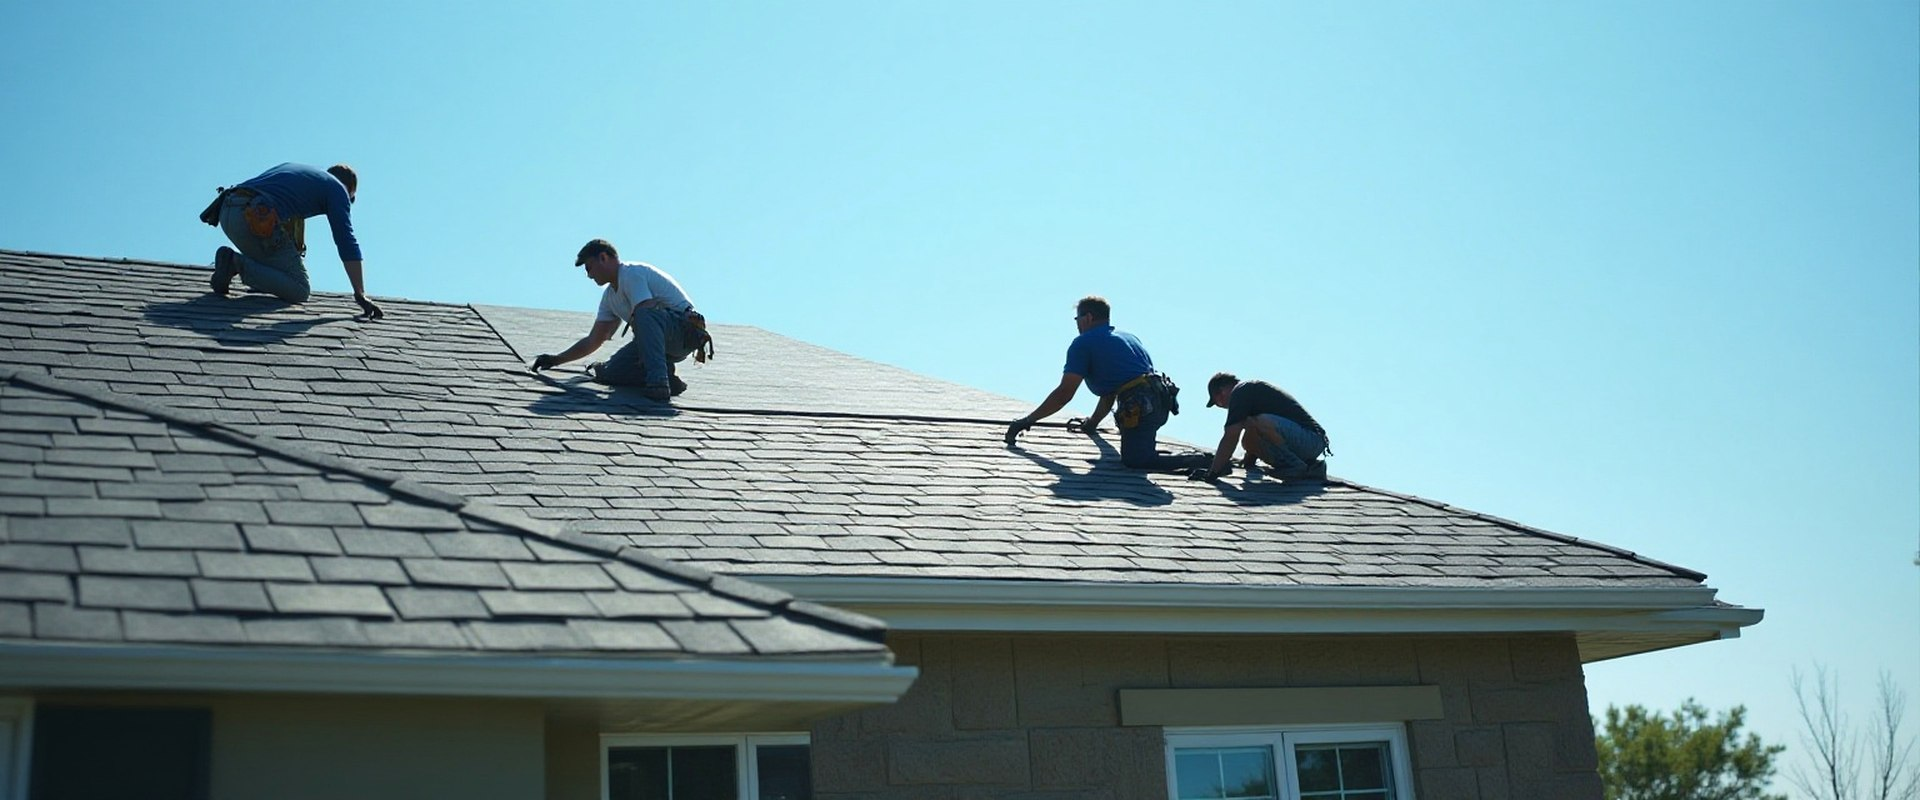
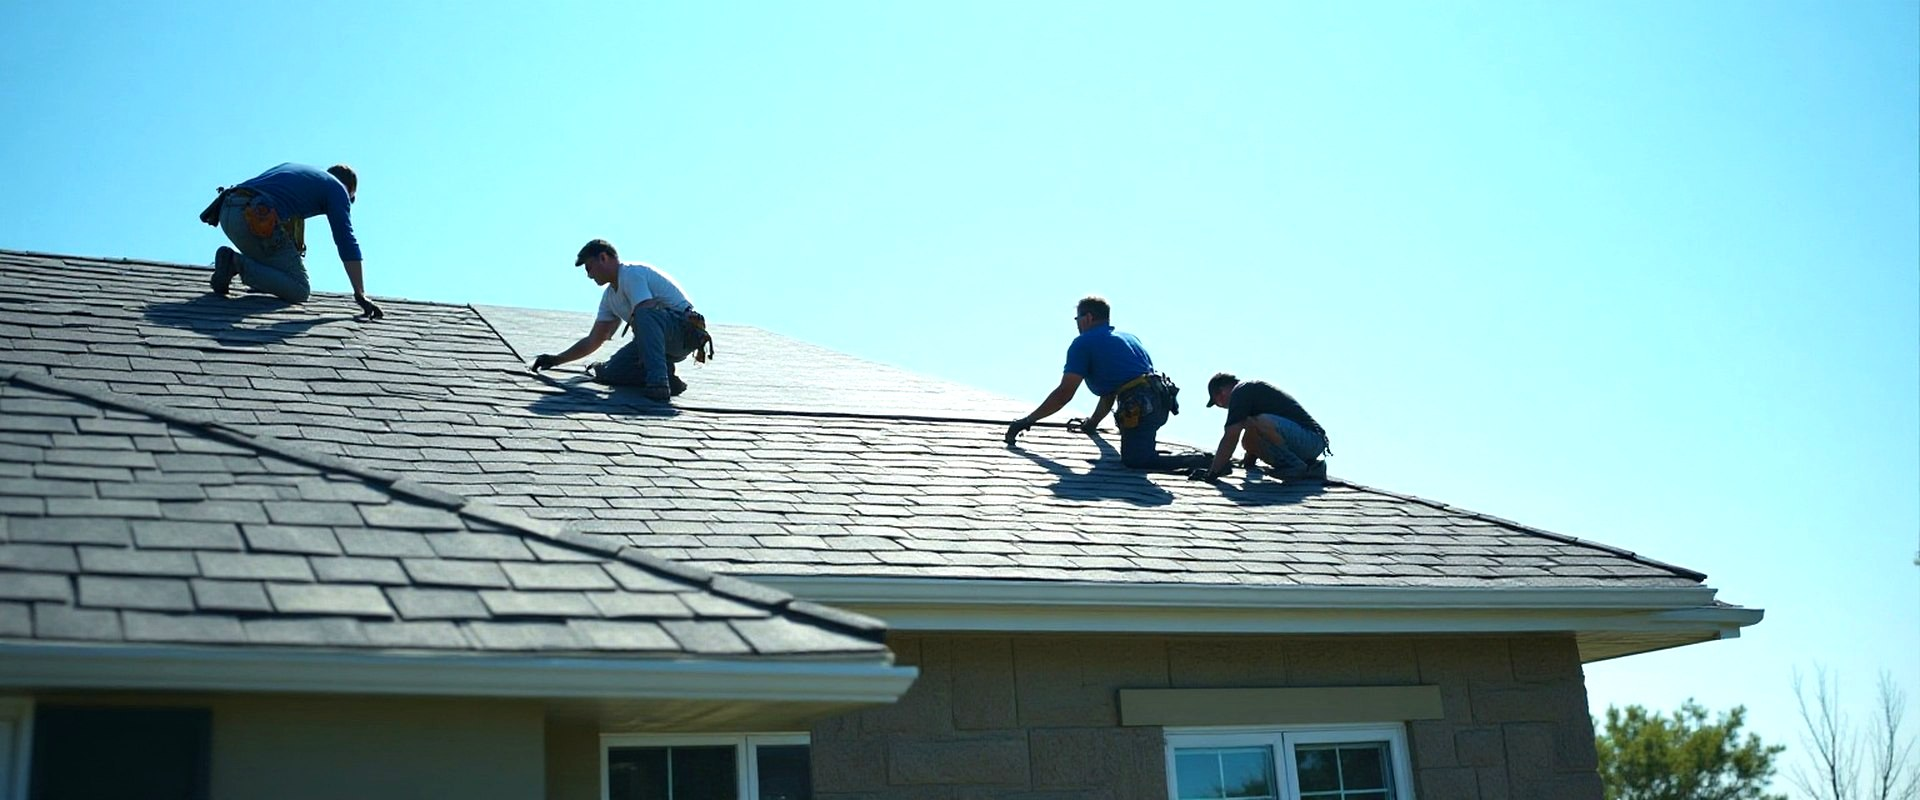
Hero: show the photo at full strength with a left scrim for headline contrast

diff --git a/index.html b/index.html
@@ -52,7 +52,7 @@ nav{position:fixed;top:0;left:0;right:0;z-index:100;background:rgba(18,17,26,0.9
 .quote-bar p{font-size:0.85em;color:#eae4d8;font-style:italic;margin:0}
 .quote-bar span{color:var(--gold);font-style:normal;font-weight:700}
 .hero{height:calc(100vh - 105px);max-height:700px;min-height:520px;background:linear-gradient(160deg,var(--night) 0%,var(--night2) 40%,#1a1535 100%);display:flex;flex-direction:column;justify-content:center;padding:120px 40px 80px;position:relative;overflow:hidden}
-.hero::before{content:'';position:absolute;top:0;left:0;right:0;bottom:0;background:url('/images/roof-01-hero.jpg') center/cover no-repeat;opacity:0.1}
+.hero::before{content:'';position:absolute;top:0;left:0;right:0;bottom:0;background:linear-gradient(90deg,rgba(18,17,26,.94) 0%,rgba(18,17,26,.88) 32%,rgba(18,17,26,.58) 55%,rgba(18,17,26,.20) 78%,rgba(18,17,26,0) 100%),linear-gradient(180deg,rgba(18,17,26,.34) 0%,rgba(18,17,26,0) 26%,rgba(18,17,26,0) 74%,rgba(18,17,26,.34) 100%),url('/images/roof-01-hero.jpg') center/cover no-repeat;opacity:1}
 .hero-guarantee{display:inline-flex;align-items:center;gap:10px;background:rgba(201,168,76,0.12);border:1px solid rgba(201,168,76,0.35);color:var(--gold);padding:8px 20px;border-radius:8px;font-size:0.8em;font-weight:600;letter-spacing:0.5px;margin-bottom:28px;width:fit-content;position:relative}
 .hero h1{font-family:var(--ff-display);font-size:clamp(3.5em,8vw,6.5em);line-height:0.95;color:var(--white);letter-spacing:2px;margin-bottom:8px;position:relative}
 .hero h1 .gold{color:var(--gold);display:block}
